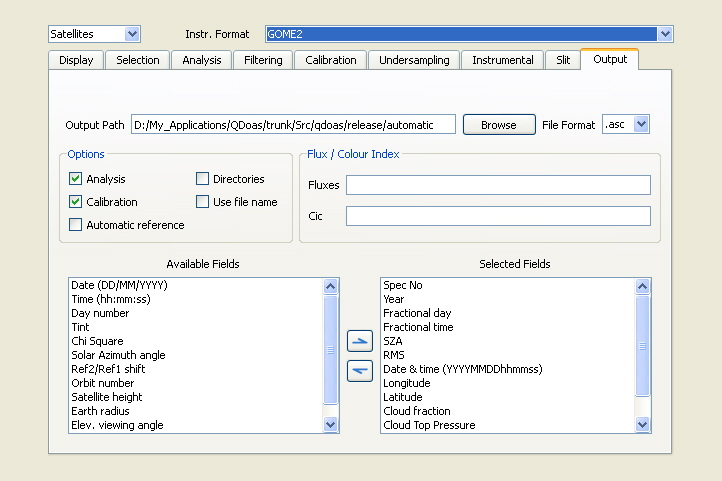
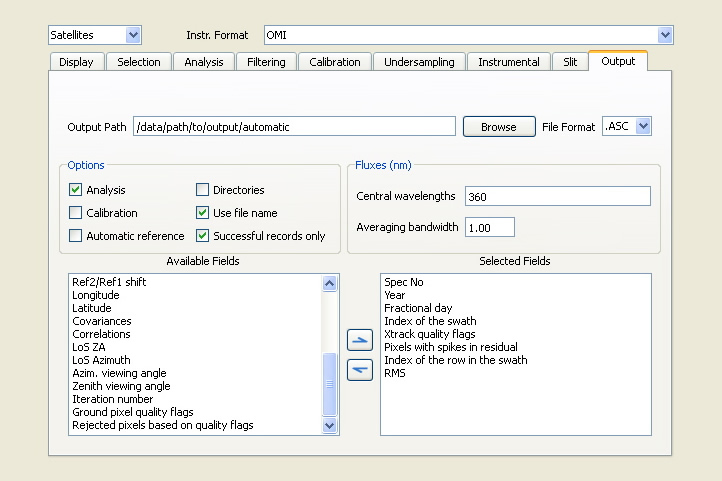
Still some changes on the S/W manual + online Help -> still to continue
git-svn-id: http://svn-ae/ae_doas/qdoas/trunk/Src@999 0551a244-8104-0410-bdc1-badfa85f4f5d

diff --git a/qdoas/Help/Project/Project_Instrumental.html b/qdoas/Help/Project/Project_Instrumental.html
@@ -12,7 +12,7 @@
 
   <tr>
     <td width="200" valign="top" bgcolor="#F3F3F3">
-<p align="center"><a href="../index.html"><img src="../QDOAS_IcoTransparent2_Small.png" alt="QDOAS_logo" width="80" height="71"></a></p>    
+<p align="center"><a href="../index.html"><img src="../QDOAS_IcoTransparent2_Small.png" alt="QDOAS_logo" width="80" height="71"></a></p>
 <p class="menu-left"><span class="menu-left-sub"><img src="../spacer_orange.jpg" width="2" height="2" alt="orange layout spacer"></span><a href="../GUI/GUI.html" style="text-decoration: none; color: #336699">&nbsp;The&nbsp;user&nbsp;interface</a></p>
     <p class="menu-left"><span class="menu-left-sub"><img src="../spacer_orange.jpg" width="2" height="2" alt="orange layout spacer"></span><a href="Project.html" style="text-decoration: none; color: #336699">&nbsp;Projects Properties</a></p>
     <p class="menu-left" align="right"><a href="Project_Display.html" style="text-decoration: none; color: #336699">Display</a></p>
@@ -41,7 +41,7 @@
             <area shape="rect" coords="582,50,638,70" href="Project_Output.html">
 <area shape="rect" coords="52,90,665,132" href="#Site">
 <area shape="rect" coords="52,138,400,268" href="#ASCII">
-<area shape="rect" coords="52,269,665,324" href="#Options"><area shape="rect" coords="401,138,657,246" href="#Options"></map>
+<area shape="rect" coords="52,269,665,324" href="#Options"><area shape="rect" coords="401,138,657,246" href="#straylight"></map>
     </p>
     <p align="justify" ><a name="Options"></a>Except the observation <strong>Site</strong>, the <strong>Calibration File</strong> and the <strong>Transmission file</strong>, the fields that appear in this page depend strictly on the  format of spectra files to process. </p>
     <strong><p align="justify" class="orangelarge">Calibration file and instrumental corrections</p></strong>
@@ -49,8 +49,7 @@
     <p align="justify"><em><strong>For the analysis of spectra, the wavelength calibration of the reference spectrum always has the priority over the spectra ones. It is important to select this  file very carefully mainly when browsing spectra to save a new reference  spectrum.</strong></em></p>
     <p align="justify">Some instrumental corrections can be applied on spectra. For example, a  transmission function previously determined in laboratory with calibrated sources can be specified in the <strong>Transmission file</strong> field. A two columns ASCII file is expected (wavelength calibration and transmission function) and spectra will be divided by this curve before the wavelength calibration procedure.</p>
     <p align="justify">Dark current correction is also possible according to the file format. The selected file format determines how dark currents are provided and how spectra are corrected. </p>
-    <p align="justify">For the <strong><u>MFC STD file format</u></strong>, spectra can be corrected by dark current and offset. The dark current should be a spectrum measured with a large integration time (typically 30 sec) and the offset should be the average of a large number of spectra measured with a very small integration time (typically 1000 x 3 ms). Note that QDOAS corrects dark current by offset. See details in the <strong>Description of Algorithms</strong> section of the <strong>QDOAS Software User Manual.</strong></p>
-    <p align="justify">For SO<sub>2</sub> retrieval, the straylight  can be problematic. It can be strongly attenuated by subtracting from the spectra, the average of the signal measured in the UV region (below 300 nm if possible). </p>
+    <p align="justify">For the <strong><u>MFC STD file format</u></strong>, spectra can be corrected by dark current and offset. For the <strong><u>MFC BIRA-IASB binary format</u></strong>, spectra are corrected after averaging the dark currents and the offsets present in the file.  The dark current should be a spectrum measured with a large integration time (typically 30 sec) and the offset should be the average of a large number of spectra measured with a very small integration time (typically 1000 x 3 ms). Note that QDOAS corrects dark current by offset. See details in the <strong>Description of Algorithms</strong> section of the <strong>QDOAS Software User Manual.</strong></p>
     <p align="justify" class="orangelarge">Satellite measurements<a name="Satellites"></a></p>
     <p align="justify">Spectra measured by the following satellite instruments can be processed by QDOAS : </p>
     <table width="80%" border="0" align="center" cellpadding="5" cellspacing="10" >
@@ -67,6 +66,11 @@
         <td id="table"><p align="justify">QDOAS uses BEAT library to read spectra from GOME2. BEAT (Basic Envisat Atmospheric Toolbox) provides functions to read atmospheric remote sensing data from different instruments : SCIAMACHY (ENVISAT), GOME (ERS-2), OMI, TES and MLS (Aura), and GOME-2 and IASI (MetOp). The package can be downloaded from the <a href="http://www.stcorp.eu/beat/download/download.html"><strong>S[&amp;]T</strong></a> web site. Before using QDOAS on GOME2 spectra, BEAT should be installed and the CODA_DEFINITION environment variable should be defined (see the <strong>Installation section</strong> of the <strong>QDOAS Software User Manual</strong>). </p>
           </td>
       </tr>
+      <tr valign="top">
+        <td width="150" id="table"><strong>OMI (AURA)</strong></td>
+        <td id="table"><p align="justify">OMI spectra are read using the HDF-EOS2 library, which is based on HDF4.</p>
+          </td>
+      </tr>
     </table>
     <p align="justify">The wavelength calibration of earthshine spectra and irradiances is provided in the files and no transmission file is needed. Both fields should then be kept empty. The only information to provide should be the spectral region to process : the band type (for GOME and GOME2) or the channel and the clusters (for SCIAMACHY).</p>
     <p align="justify" class="orangelarge">Ground-based  measurements<a name="Satellites"></a></p>
@@ -78,8 +82,14 @@
       </tr>
       <tr valign="top">
         <td width="150" id="table"><strong>MFC STD</strong></td>
-        <td id="table"><div align="justify">ASCII format produced by  the well-known DOASIS program designed in Java by the atmospheric research group at IUP Heidelberg, Germany (Stefan Kraus,...) and largely used in the DOAS community. QDOAS requires the size of the detector and the format of the date (for example : MM.DD.YYYY). The equivalent MFC binary file format is not supported by QDOAS. </div></td>
+        <td id="table"><div align="justify">ASCII format produced by  the well-known DOASIS program designed in Java by the atmospheric research group at IUP Heidelberg, Germany (Stefan Kraus,...) and largely used in the DOAS community. QDOAS requires the size of the detector and the format of the date (for example : MM.DD.YYYY). </div></td>
       </tr>
+      <tr valign="top">
+        <td width="150" id="table"><strong>MFC Binary (BIRA-IASB)</strong></td>
+        <td id="table"><div align="justify">The MFC binary format generated by DOASIS is not supported by QDOAS.  With DOASIS, it is easy to run scripts that convert the MFC binary files in MFC STD format.
+Because spectra are saved in individual files with automatic numbering, MFC STD format is not very suitable to browse spectra and for efficient automatic reference selection (zenith of the scan for MAXDOAS data). That's
+why, BIRA-IASB has developed its own MFC binary format in which all spectra of a same day including dark currents and offsets measured the night are saved in a unique file.  It is possible to convert MFC STD files in this BIRA-IASB binary format using the
+converter MFC_Std2Bin.  See further details in the <b>Supported spectra file formats</b> section of the <b>QDOAS overview</b> chapter of the QDOAS Software User Manual.       </tr>
       <tr valign="top">
         <td width="150" id="table"><strong>MKZY PAK</strong></td>
         <td id="table"><p align="justify">developed at the Chalmers University of Technology, Goteborg, Sweden (MANNE Kihlman and ZHANG Yan) and used in the NOVAC network</p>          </td>
@@ -90,7 +100,7 @@
       </tr>
     </table>
     <p align="justify" class="orangelarge">The ASCII file format<a name="ASCII"></a></p>
-    <p align="justify">Other formats are specific to the different Institutes that developed them. If a format is not supported by QDOAS, it should be possible to convert the files in ASCII. When the ASCII format is selected, spectra can be provided in the file one record per line <strong>(line format)</strong> or  one  spectral value per line   <strong>(column format)</strong>. According to the checked flags in the <strong>Read from file</strong> group box, the following information are expected strictly in the given order&nbsp;:</p>
+    <p align="justify">Other formats are specific to the different Institutes that developed them. If a format is not supported by QDOAS, it should be possible to convert the files in ASCII. When the ASCII format is selected, spectra can be provided in the file one record per line <strong>(line format)</strong>, one spectral value per line  <strong>(column format)</strong> or several spectra in columns (from version 2.107). According to the checked flags in the <strong>Read from file</strong> group box, the following information are expected strictly in the given order&nbsp;:</p>
     <ol>
       <li>Solar Zenith Angle</li>
       <li>Azimuth Viewing Angle</li>
@@ -98,9 +108,18 @@
       <li>Date in the DD/MM/YYYY (day/month/year) format</li>
       <li>Fractional time</li>
     </ol>
-  <p align="justify">In the column format, angles have to be given on the same line and a wavelength calibration can be provided with spectra. Some examples of ASCII files supported by QDOAS are given in annex of the <strong>QDOAS Software User Manual.</strong></p>
+  <p align="justify">In the column format, angles had to be given on the same line until version 2.106. From version 2.107, the column format accepts also matrices of spectra and angles have to be given in separate
+lines.  With column format, a wavelength calibration can be provided with spectra. It should be given in first column of each data set.</p>
+  <p align="justify">Some examples of ASCII files supported by QDOAS are given in annex of the <strong>QDOAS Software User Manual.</strong></p>
   <p align="justify" class="orangelarge">The observation site<a name="Site"></a></p>
-  <p align="justify">The information on the observation <strong>Site</strong> is used to  (re&#8209;)calculate solar zenith angle from geolocation coordinates given for this site in the <strong><a href="../GUI/GUI_Sites.html">Sites</a> </strong>sheet. This can be useful for example if the solar zenith angles saved in the files are not reliable enough. The abbreviation of the observation site is also used to build  automatic output file names (see the<strong> <a href="Project_Output.html#AutomaticFile">Output Page</a></strong>).</p>
+  <p align="justify">The information on the observation <strong>Site</strong> is used to  (re&#8209;)calculate solar zenith angle from geolocation coordinates given for this site in the <strong><a href="../GUI/GUI_Sites.html">Sites</a> </strong>sheet. This can be useful for example if the solar zenith angles saved in the files are not reliable enough. The abbreviation of the observation site is also used to build  automatic output file names (see the<strong> <a href="Project_Output.html#AutomaticFile">Output Page</a></strong>).
+The longitude is particularly useful to select reference spectra of the day
+using the local time instead of Universal Time in case fractional days and
+times given in UT are distributed in two days (for example, measurements
+in China).</p>
+  <p align="justify" class="orangelarge">Straylight bias<a name="straylight"></a></p>
+  <p align="justify">Requested for some spectra files format, this option allows subtracting from a spectrum the signal averaged on the specified range of wavelengths.
+This is useful for example, to retrieve SO<sub>2</sub> in the UV region where the signal is very poor and where the straylight is problematic.  Even if the straylight can be attenuated by subtracting from the spectra, the average of the signal measured in the UV region (below 300 nm if possible), it is recommended to characterize it in laboratory.</p>
   <p align="justify">&nbsp;</p>    </tr>
 </table>
 <div id="footcontainer" >

diff --git a/qdoas/Help/Project/Project_Slit.html b/qdoas/Help/Project/Project_Slit.html
@@ -12,7 +12,7 @@
 
   <tr>
     <td width="200" valign="top" bgcolor="#F3F3F3">
-<p align="center"><a href="../index.html"><img src="../QDOAS_IcoTransparent2_Small.png" alt="QDOAS_logo" width="80" height="71"></a></p>    
+<p align="center"><a href="../index.html"><img src="../QDOAS_IcoTransparent2_Small.png" alt="QDOAS_logo" width="80" height="71"></a></p>
 <p class="menu-left"><span class="menu-left-sub"><img src="../spacer_orange.jpg" width="2" height="2" alt="orange layout spacer"></span><a href="../GUI/GUI.html" style="text-decoration: none; color: #336699">&nbsp;The&nbsp;user&nbsp;interface</a></p>
     <p class="menu-left"><span class="menu-left-sub"><img src="../spacer_orange.jpg" width="2" height="2" alt="orange layout spacer"></span><a href="Project.html" style="text-decoration: none; color: #336699">&nbsp;Projects Properties</a></p>
     <p class="menu-left" align="right"><a href="Project_Display.html" style="text-decoration: none; color: #336699">Display</a></p>
@@ -47,15 +47,21 @@
     </p>
     <p align="justify" ><a name="Options"></a>Input cross-sections have to be degraded to the resolution of the instrument before the analysis. This can be done using the <strong><a href="../Tools/Tools_Convolution.html">convolution tool</a></strong>. However the programme also authorizes the  direct use of high-resolution cross-sections which will be convolved in real time using information provided in this page <strong><u>if and only</u></strong> if the slit function is not characterized  by the <strong>wavelength calibration procedure</strong> (see the <a href="Project_Calibration.html"><strong>Calibration page</strong></a> of <strong>Projects Properties</strong>).</p>
     <p align="justify" class="orangelarge">Slit function type<a name="Type"></a></p>
-    <p align="justify">Several analytic line shapes are proposed including line shapes supported by the wavelength calibration procedure (gaussian, lorentzian, error function, voigt and asymmetric line shapes). Different fields have to be completed according to the selected slit function. ASCII file is requested for slit functions measured in laboratory (option File) or when the <strong>&laquo; Wavelength dependent &raquo;</strong> button is checked (analytical line shapes). </p>
+    <p align="justify">Several analytic line shapes are proposed including line shapes supported by the wavelength calibration procedure (gaussian, lorentzian, error function, voigt and asymmetric gaussian line shapes). Different fields have to be completed according to the selected slit function. ASCII file is requested for slit functions measured in laboratory (option File) or when the <strong>&laquo; Wavelength dependent &raquo;</strong> button is checked (analytical line shapes). </p>
     <ul><li>
       <div align="justify"><u>Slit functions measured in laboratory</u> : the first column should be the wavelength grid of the line shape; the maximum of the line shape is expected around 0 nm;  look-up tables can be specified for line shapes defined  at different wavelength (in this case, the first line gives the individual wavelength);</div>
     </li>
     <li>
       <div align="justify"><u>Wavelength dependent analytical slit functions</u> : the input file should contain the FWHM variation with the wavelenth calibration; at a given wavelength, cross-sections will be convolved with the appropriate resolution.</div>
-    </li></ul>
+    </li>
+        <li>
+      <div align="justify"><u>Wavelength dependent stretch factors on a user-defined slit function</u> : To account for an asymmetry of the slit function that varies with the wavelength, a three columns ASCII file can be specified in addition to the slit function file.
+This <strong>Stretch on wavelength</strong> file should contain the wavelength calibration and the two values of the stretch to apply on the grid of the line shape, one for each side of the slit function.
+Such a file can be obtained by merging in one file the parameters SFP1 and SFP2 resulting of the wavelength calibration (use the <strong>Save As</strong> option from the title of the plots to save the curves in an ASCII file).
+    </li>
+    </ul>
     <p align="justify" class="orangelarge">Solar reference file<a name="Solar"></a></p>
-    <p align="justify">A high-resolution solar spectrum is expected to replace the solar spectrum of the <b>Calibration page</b> if the slit function is not characterized during the calibration procedure and solar spectrum and cross sections have to be convolved with the line shape specified in this page.  
+    <p align="justify">A high-resolution solar spectrum is expected to replace the solar spectrum of the <b>Calibration page</b> if the slit function is not characterized during the calibration procedure and solar spectrum and cross sections have to be convolved with the line shape specified in this page.
 Otherwise, if the slit function type of this page is <b>None</b>, preconvolved solar spectrum (in this page) and cross sections (in <b>Analysis windows properties</b>) are expected.</p>
     <p align="justify" class="orangelarge">FWHM correction<a name="FWHM_Correction"></a></p>
     <p align="justify">If  the dependence of the slit function with the detector temperature is known (for example, for the SAOZ instrument),  QDOAS can determine the difference of resolution between the control spectrum  and each spectrum to analyze and use this information to convolve cross  sections.&nbsp; If the button <strong>Apply Fwhm correction</strong> is checked,  a  wavelength and temperature dependent  <strong>Slit Function type</strong> has to be selected and the appropriate file has to be specified.&nbsp; This option is processing  time consuming and is practically never used.</p>

diff --git a/qdoas/Help/Project/Project_Output.html b/qdoas/Help/Project/Project_Output.html
@@ -12,7 +12,7 @@
 
   <tr>
     <td width="200" valign="top" bgcolor="#F3F3F3">
-<p align="center"><a href="../index.html"><img src="../QDOAS_IcoTransparent2_Small.png" alt="QDOAS_logo" width="80" height="71"></a></p>    
+<p align="center"><a href="../index.html"><img src="../QDOAS_IcoTransparent2_Small.png" alt="QDOAS_logo" width="80" height="71"></a></p>
 <p class="menu-left"><span class="menu-left-sub"><img src="../spacer_orange.jpg" width="2" height="2" alt="orange layout spacer"></span><a href="../GUI/GUI.html" style="text-decoration: none; color: #336699">&nbsp;The&nbsp;user&nbsp;interface</a></p>
     <p class="menu-left"><span class="menu-left-sub"><img src="../spacer_orange.jpg" width="2" height="2" alt="orange layout spacer"></span><a href="Project.html" style="text-decoration: none; color: #336699">&nbsp;Projects Properties</a></p>
     <p class="menu-left" align="right"><a href="Project_Display.html" style="text-decoration: none; color: #336699">Display</a></p>
@@ -71,11 +71,11 @@
     </tr>
   </table>
   <p align="justify">For satellite measurements, the <strong>Use file name button</strong> has no effect. If overpasses calculation is requested (option <strong>Sites</strong> in the <strong>Geolocation</strong> frame of the <a href="Project_Selection.html"><strong>Selection</strong></a> page), then the output file name is determined as above (&lt;output path&gt;/XXYYYYMM.ASC where XX is the abbreviation of the station). Otherwise, for SCIAMACHY files, the output file name automatically created has the syntax SCIA_YYYYMMDD_NNNN.ASC where YYYYMMDD is the date of measurement (year, month, day) and NNNN the orbit number. For other satellite formats, the original file name is used (but with the file extension <strong>&laquo; .ASC &raquo;</strong>). Files are distributed in a year/month/day folder structure if the <strong>Directories</strong> button is checked. </p>
-  <p class="orangelarge">Fluxes and colour indexes<a name="Fluxes">&nbsp;</a></p>
-      <p align="justify"><strong>The flux</strong> is the value of the signal averaged over seven pixels around the specified wavelength.  Divided by the exposure time, this can be used to check a relative intensity. To calculate and save fluxes in the output file, specify the central wavelengths separated by the semicolon (;) character.  For example, to get fluxes at 330 nm, 350 nm and 380 nm, enter :</p>
+  <p class="orangelarge">Fluxes<a name="Fluxes">&nbsp;</a></p>
+      <p align="justify"><strong>The flux</strong> is the value of the signal averaged over pixels within a bandwith around the specified wavelength.  Divided by the exposure time, this can be used to check a relative intensity. To calculate and save fluxes in the output file, specify the central wavelengths separated by the semicolon (;) character.  For example, to get fluxes at 330 nm, 350 nm and 380 nm, enter :</p>
       <p align="center">330; 350; 380;</p>
-      <p><strong>The colour index</strong> is the ratio of two fluxes.  To output different colour indexes (Cic),  write the ratios separated by the semicolon (;) character as in the example below&nbsp;:</p>
-    <p align="center">380/330; &nbsp;380/350;</p>
+      <p align="justify">From version 2.107, the <strong>averaging bandwidth</strong> in nm is also requested (for example a bandwidth of 1 nm means that pixels within the central wavelength +/- 0.5 nm will be averaged).
+But it is not possible to output colour indexes anymore.  The colour index is the ratio between two fluxes; the calculation outside QDOAS is easy if both fluxes are output.    </p>
     <p align="justify" class="orangelarge">Selection of fields to output<a name="Selection">&nbsp;</a></p>
     <p align="justify">The  content of this frame is similar to the one in the <a href="Project_Display.html"><strong>Display</strong></a> page. &nbsp;In QDOAS, the output is fully configurable.  Information related to the measurements (e.g. date and time, viewing angles, geolocation coordinates, ...) can be selected in this page. The selection of analysis results (e.g. slant column densities, fitted non-linear parameters,...) is made individually in the <a href="../Analysis/Analysis.html"><strong>Analysis windows properties</strong></a> pages. The selected instrument or file format determines the list of fields available for output. For example, information on cloud fraction and cloud top pressure is   available only for satellite instruments. A non-exhaustive list of fields available for ground-based  and satellite measurements  is given in annex of the <strong>QDOAS Software User Manual</strong>.</p>
     <p align="justify">&nbsp;</p>	  </td>

diff --git a/qdoas/Help/GUI/GUI_Sites.html b/qdoas/Help/GUI/GUI_Sites.html
@@ -11,7 +11,7 @@
 
   <tr>
     <td width="200" valign="top" bgcolor="#F3F3F3">
-<p align="center"><a href="../index.html"><img src="../QDOAS_IcoTransparent2_Small.png" alt="QDOAS_logo" width="80" height="71"></a></p>    
+<p align="center"><a href="../index.html"><img src="../QDOAS_IcoTransparent2_Small.png" alt="QDOAS_logo" width="80" height="71"></a></p>
 <p class="menu-left"><span class="menu-left-sub"><img src="../spacer_orange.jpg" width="2" height="2" alt="orange layout spacer"></span><a href="GUI.html" style="text-decoration: none; color: #336699">&nbsp;The&nbsp;user&nbsp;interface</a></p>
     <p class="menu-left" align="right"><a href="GUI_Projects.html" style="text-decoration: none; color: #336699">Projects Tree</a></p>
     <p class="menu-left" align="right"><a href="GUI_Sites.html" style="text-decoration: none; color: #336699">Sites</a></p>
@@ -31,7 +31,13 @@
         <li>latitudes are positive  northwards; negative southwards.</li>
       </ul>
     </div>
-    <p align="justify">For ground-based measurements, information on the observation site  can help to [re-]calculate the solar zenith angle as far as the measurement  date and time are correct (see the <strong><a href="../Project/Project_Instrumental.html">Instrumental  page</a></strong> of <strong>Projects Properties</strong>).&nbsp; For satellite measurements, this page can be  used to define a list of overpasses (see the <strong><a href="../Project/Project_Selection.html">Selection page</a></strong> of <strong>Project  properties</strong>).&nbsp; In both cases, the <strong>Abbreviation </strong>is used as prefix of the  name of the output files when the automatic creation of the output file name is  requested. The <strong>Altitude</strong> information is just for the  user.    </p>
+    <p align="justify">For ground-based measurements, information on the observation site  can help to [re-]calculate the solar zenith angle as far as the measurement date and time are correct (see the <strong><a href="../Project/Project_Instrumental.html">Instrumental  page</a></strong> of <strong>Projects Properties</strong>).&nbsp;
+    The longitude is also accounted to correctly select the
+reference spectrum of the day using the local time instead of the UT time
+in the case fractional days and times given in UT are distributed on two
+days (for example, for China).</p>
+<p>For satellite measurements, this page can be  used to define a list of overpasses (see the <strong><a href="../Project/Project_Selection.html">Selection page</a></strong> of <strong>Project  properties</strong>).&nbsp; In both cases, the <strong>Abbreviation </strong>is used as prefix of the  name of the output files when the automatic creation of the output file name is  requested.</p>
+<p>The <strong>Altitude</strong> information is just for the  user.</p>
     <p align="justify" >&nbsp;</p>
     </tr>
 </table>
